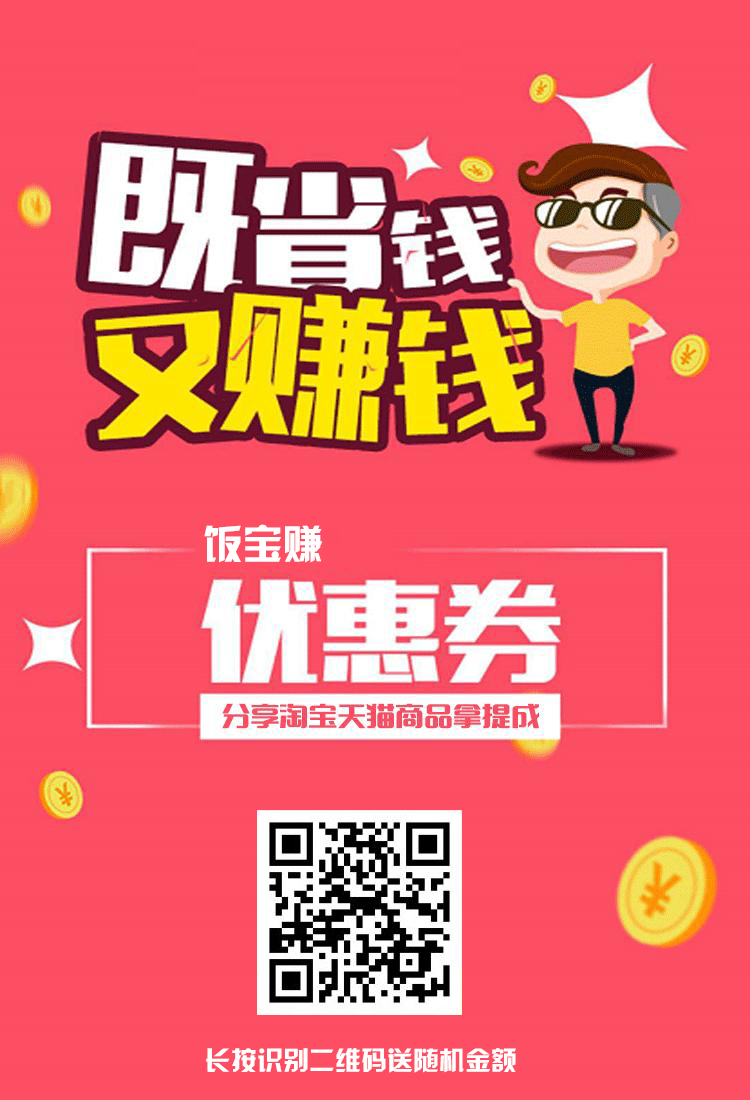
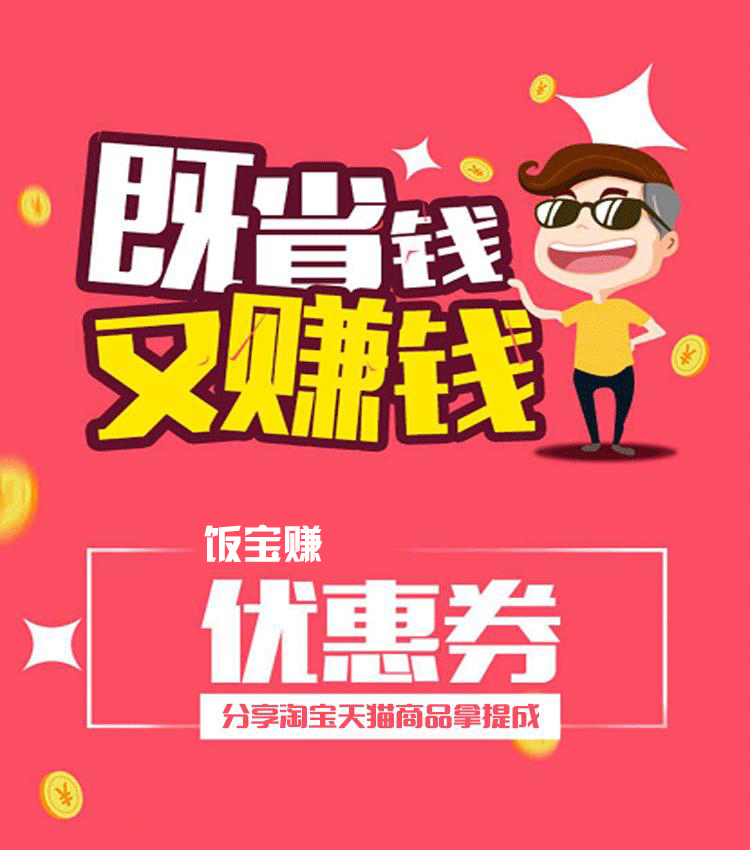
add

diff --git a/public/themes/fanbao/public/assets/css/style_fanbao.css b/public/themes/fanbao/public/assets/css/style_fanbao.css
@@ -381,7 +381,11 @@ nav li p {
 .main_mgf img{ width:100%;}
 .main_mgf{ text-align:center; color:#fff; padding:10px; padding-top:20px;}
 .main_mgf h4{ font-size:18px; display:block; width:100%;}
-.main_mgf p{ font-size:13px; line-height:20px; margin-top:10px;}
+.main_mgf p{ font-size:14px; line-height:20px; margin-top:10px;}
+.ewm { text-align:center; padding:20px 0;}
+.ewm img{ width:50%; margin-bottom:6px;}
+.ewm h5{ font-size:14px; font-weight:normal; color:#b71c2e;}
+
 
 
 

diff --git a/public/themes/fanbao/portal/fanbaoquan.html b/public/themes/fanbao/portal/fanbaoquan.html
@@ -19,8 +19,10 @@
 <p>用了十多天，省了几百块，超级赞！</p>
 <p>分享好东西给大家，赶紧用起来哦，保证不会后悔！</p>
 <p>看别人花钱，我省钱，心里美滋滋！</p>
-          </div>
-       </div>
+
+<div class="ewm">
+    <img src="__TMPL__/public/assets/images/fanbao/mgf_ewm.jpg"><h5>扫面识别二维码送随机金额</h5>
+</div>
        <!--主体部分结束-->
        <!--底部导航开始-->
        <nav>
